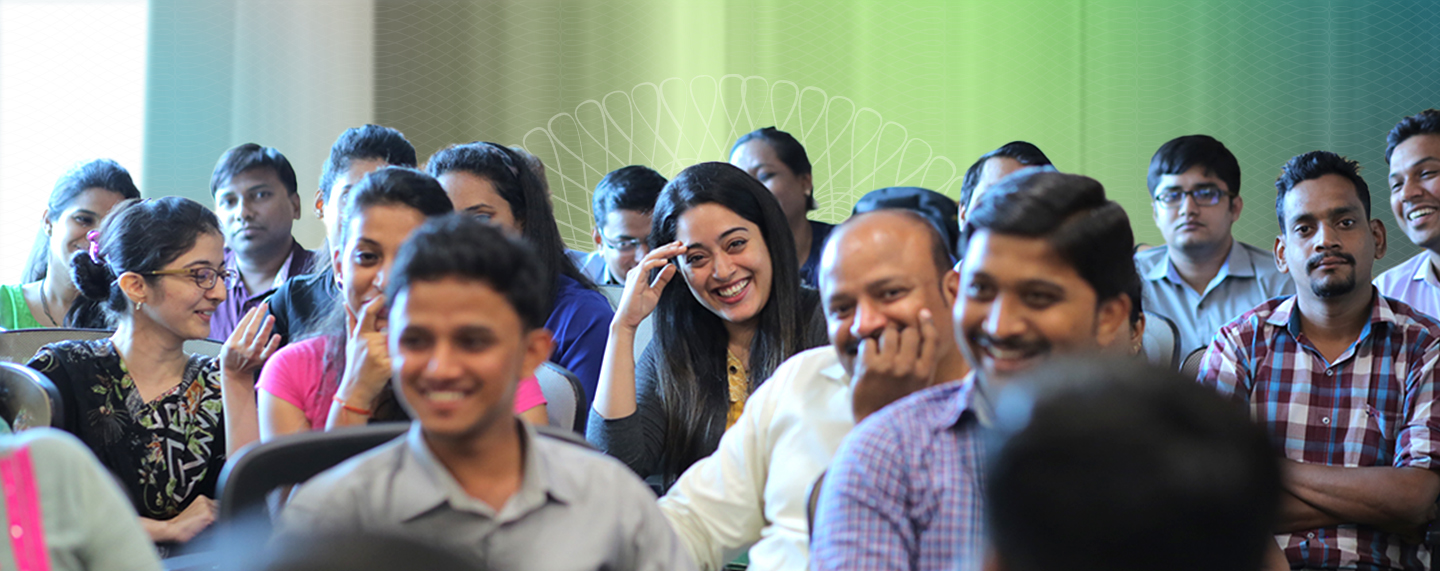
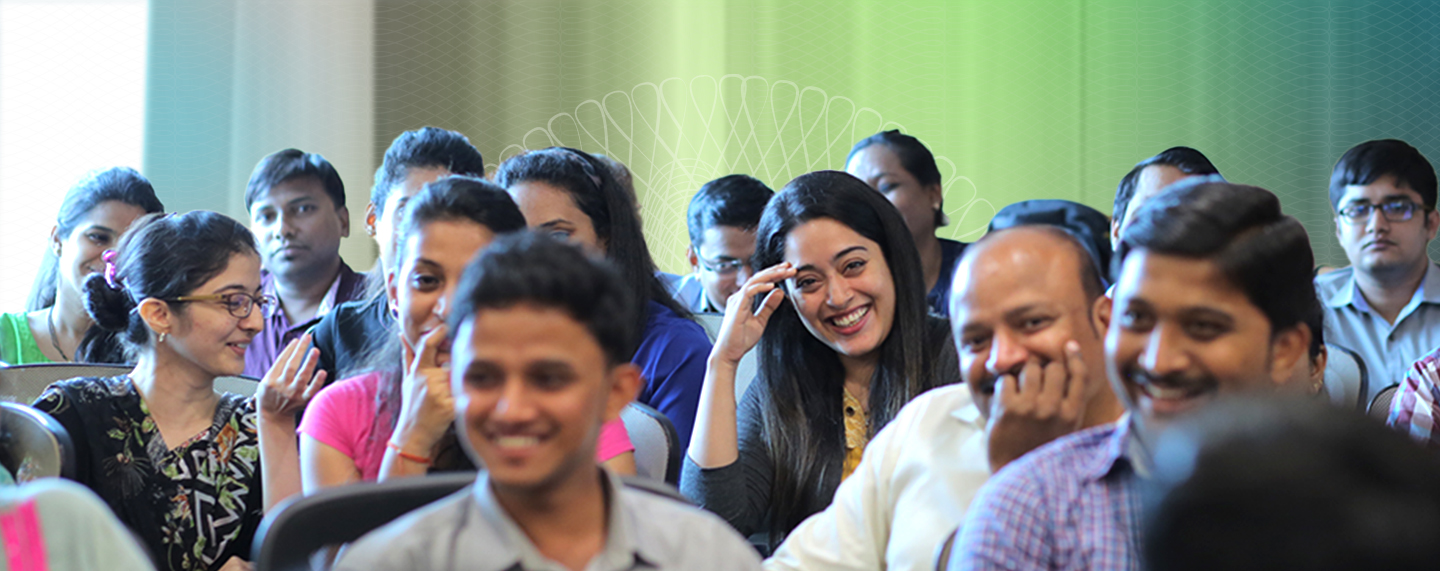
. new changes

diff --git a/src/components/Footer2.js b/src/components/Footer2.js
@@ -243,10 +243,10 @@ export default function Footer() {
 
 					{/* <hr className={`${styles.lastLine}`} /> */}
 
-					<div className={`${styles.box2}`}>
+					{/* <div className={`${styles.box2}`}>
 						<p className="text_xs f_w_r color_white opacity_70">Privacy Policy</p>
 						<p className="text_xs f_w_r color_white opacity_70">Terms & Conditions</p>
-					</div>
+					</div> */}
 
 					{/* <a href="https://www.ting.in/" target="_blank">
 						<img src={ting.src} alt="tinglogo" />
